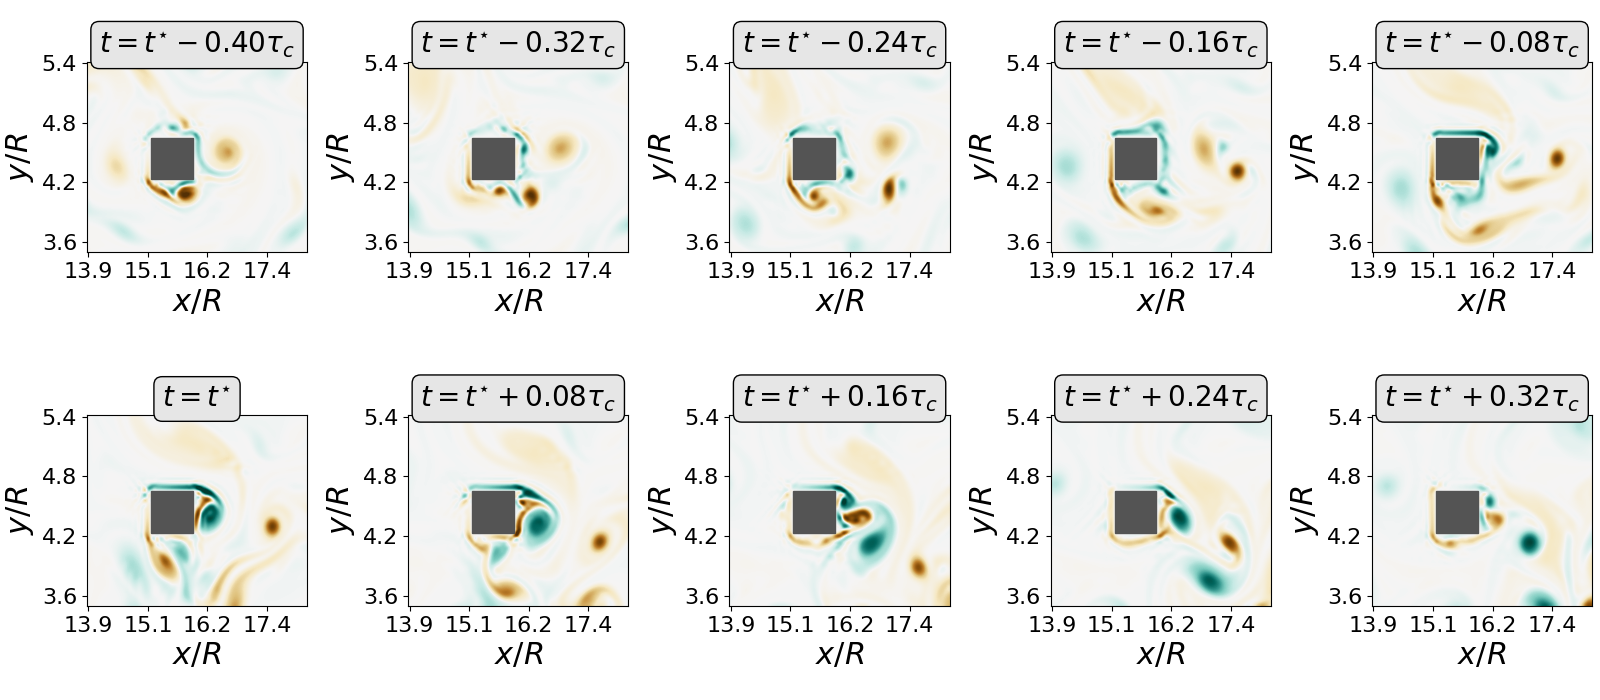
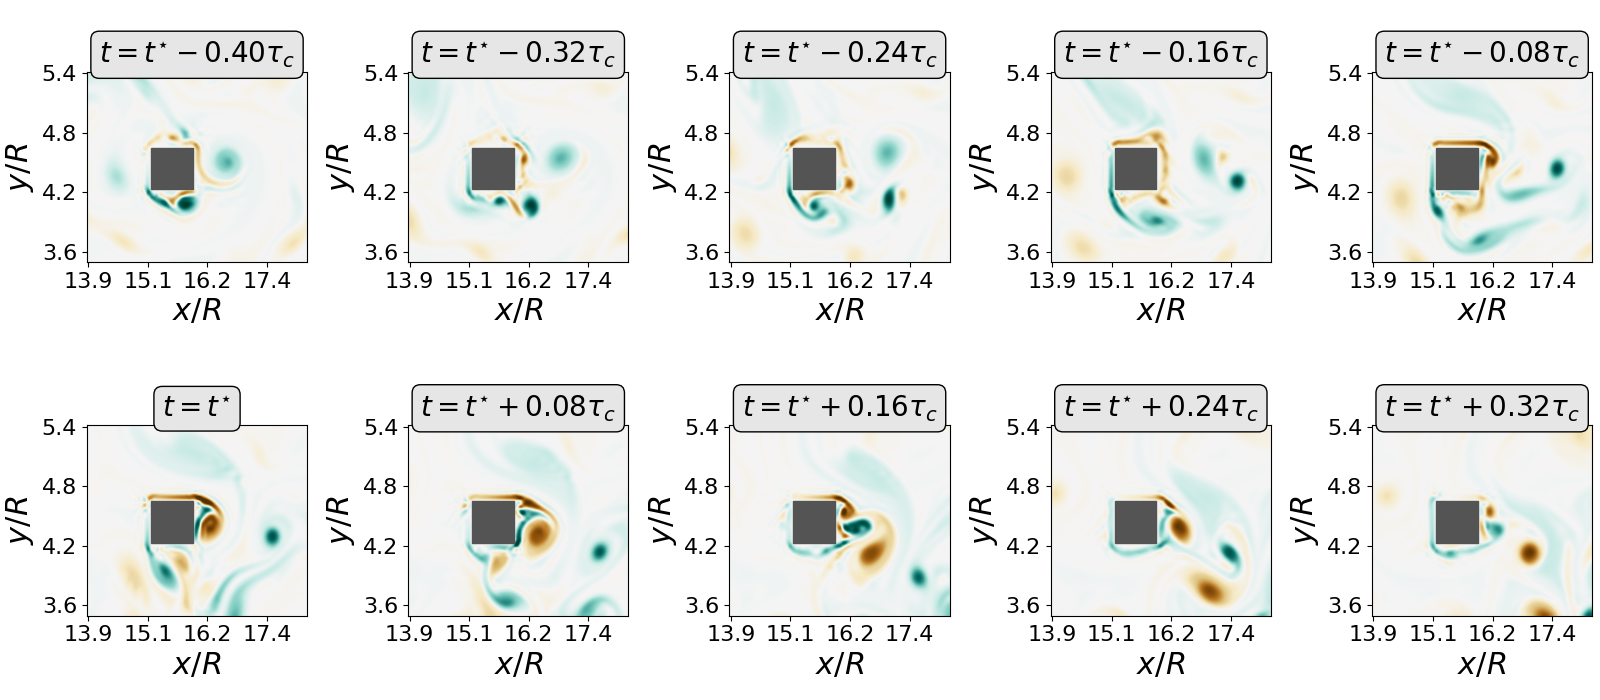
Reverse vorticity field

diff --git a/figures/illustr_ecoulement/plot_ecoulement.py b/figures/illustr_ecoulement/plot_ecoulement.py
@@ -1,0 +1,77 @@
+# Produces a figure illustrating the vorticity field in the whole comp. domain
+import numpy as np
+import matplotlib.pyplot as plt
+from matplotlib.patches import Rectangle
+
+Dx = 513
+Dy = 129
+N = Dx*Dy
+F = np.zeros(104)
+idx = np.zeros(104)
+# Make use of flow data generated for figure ecoulement typique
+prefix = '/home/tlestang/transition_hdd/thibault/These/' \
+         + 'articles/data/ecoulement_typique/'
+
+fig, ax = plt.subplots(figsize=(16,7), constrained_layout=True)
+# Declares a 2x5 grid.
+
+path_to_file_ux = prefix+'ux.dat'
+path_to_file_uy = prefix+'uy.dat'
+fx = open(path_to_file_ux, "rb")  # reopen the file
+fy = open(path_to_file_uy, "rb")  # reopen the file
+bbox = dict(boxstyle="round", fc="0.9")
+
+# Get velocity fields
+ux = np.fromfile(fx, float, N, "")
+ux = np.reshape(ux, (129,513), 'F')
+uy = np.fromfile(fy, float, N, "")
+uy = np.reshape(uy, (129,513), 'F')
+    
+ymin=1;ymax=128
+xmin=1;xmax=512
+# Compute vorticity using finite-differences
+dxy = (uy[ymin:ymax, xmin+1:xmax+1] - uy[ymin:ymax, xmin-1:xmax-1])*0.5
+dyx = (ux[ymin+1:ymax+1, xmin:xmax] - ux[ymin-1:ymax-1, xmin:xmax])*0.5
+vort = dxy - dyx
+# The sign of the vorticity is wrong if using a right-handed coord. system.
+# The velocity field should probably be flipped upside-down
+vort = - vort
+
+im=ax.imshow(vort, interpolation='spline36', cmap='BrBG', vmin=-0.07, vmax=0.07)
+
+# Adds a filled Rectangle to mark the square obstacle
+rect = ax.add_artist(Rectangle((256,55), 14, 14))
+rect.set_color('#545454')
+# Show the grid
+R = 8
+ny,nx  = ux.shape
+n_lamina = ((ny-1)/R)/2
+x0 = (nx-1)/16
+for i in range(0,int(n_lamina)):
+    y_start = 2*i*R + R/2
+    y_end = y_start + R
+    grid = ax.add_artist(Rectangle((x0-1,y_start-1), 1, R-1))
+    grid.set_color('#545454')
+
+# Write ticks and labels
+xticks = ax.get_xticks()
+xticks[:] = [x / 17 for x in xticks]
+xticklabels = ['{:2.1f}'.format(x) for x in xticks]
+ax.set_xticklabels(xticklabels, fontsize=16)
+yticks = ax.get_yticks()
+yticks[:] = [x / 17 for x in yticks]
+yticklabels = ['{:2.1f}'.format(x) for x in yticks]
+ax.set_yticklabels(yticklabels[::-1], fontsize=16)
+
+ax.tick_params(axis='both', which='major', labelsize=22)
+ax.set_xlabel(r'$x/R$',fontsize=24)
+ax.set_ylabel(r'$y/R$',fontsize=24)
+        
+#cbar=fig.colorbar(im, ax=ax,location='top')
+#cbar.ax.tick_params(labelsize=16)
+
+fname = 'illustr_ecoulement.png'
+plt.savefig(fname)
+
+plt.show()
+            

diff --git a/figures/illustr_extrms_vorticity/make_plot_vorticity.py b/figures/illustr_extrms_vorticity/make_plot_vorticity.py
@@ -11,7 +11,7 @@ Dy = 129
 N = Dx*Dy
 F = np.zeros(104)
 idx = np.zeros(104)
-prefix = '/home/thibault/transition_hdd/thibault/These/lbm_code/seq/draft/etude_dynamique/instant_events/'
+prefix = '/home/tlestang/transition_hdd/thibault/These/lbm_code/seq/draft/etude_dynamique/instant_events/'
 # Files extremes.csv contains the index of the events and the corresponding
 # peak drag amplitude, in units of sigma
 # First row is lowest fluctuation
@@ -59,6 +59,9 @@ for i in range(0,Nevents):
         dxy = (uy[ymin:ymax, xmin+1:xmax+1] - uy[ymin:ymax, xmin-1:xmax-1])*0.5
         dyx = (ux[ymin+1:ymax+1, xmin:xmax] - ux[ymin-1:ymax-1, xmin:xmax])*0.5
         vort = dxy - dyx
+        # The sign of the vorticity is wrong if using a right-handed coord. system.
+        # The velocity field should probably be flipped upside-down
+        vort = - vort
 
         # Print fluctuation amplitude as title
         tit='{:2.1f}$\\sigma$'.format(F[Nevents-i-1])

diff --git a/figures/dynamics_extremes/plot_dynamics.py b/figures/dynamics_extremes/plot_dynamics.py
@@ -12,7 +12,7 @@ N = Dx*Dy
 F = np.zeros(104)
 idx = np.zeros(104)
 
-prefix = '/home/thibault/transition_hdd/thibault/These/lbm_code/seq/draft/etude_dynamique/instant_events/'
+prefix = "/home/tlestang/transition_hdd/thibault/These/lbm_code/seq/draft/etude_dynamique/instant_events/"
 # Files extremes.csv contains the index of the events and the corresponding
 # peak drag amplitude, in units of sigma
 # First row is lowest fluctuation
@@ -60,6 +60,9 @@ for i in range(0,nplots):
         dxy = (uy[ymin:ymax, xmin+1:xmax+1] - uy[ymin:ymax, xmin-1:xmax-1])*0.5
         dyx = (ux[ymin+1:ymax+1, xmin:xmax] - ux[ymin-1:ymax-1, xmin:xmax])*0.5
         vort = dxy - dyx
+        # The sign of the vorticity is wrong if using a right-handed coord. system.
+        # The velocity field should probably be flipped upside-down
+        vort = - vort
 
         # Print fluctuation amplitude as title
         timeFromPeak=(offset+1-50)*0.04

diff --git a/figures/ecoulement_typique/plot_ecoulement_typique.py b/figures/ecoulement_typique/plot_ecoulement_typique.py
@@ -12,7 +12,8 @@ N = Dx*Dy
 F = np.zeros(104)
 idx = np.zeros(104)
 
-prefix = './'
+prefix = '/home/tlestang/transition_hdd/thibault/These/' \
+         + 'articles/data/ecoulement_typique/'
 
 fig = plt.figure(figsize=(16,7), constrained_layout=True)
 # Declares a 2x5 grid.
@@ -51,6 +52,9 @@ for i in range(0,nplots-1):
         dxy = (uy[ymin:ymax, xmin+1:xmax+1] - uy[ymin:ymax, xmin-1:xmax-1])*0.5
         dyx = (ux[ymin+1:ymax+1, xmin:xmax] - ux[ymin-1:ymax-1, xmin:xmax])*0.5
         vort = dxy - dyx
+        # The sign of the vorticity is wrong if using a right-handed coord. system.
+        # The velocity field should probably be flipped upside-down
+        vort = - vort
 
         # Print time as title
         timeFromBeg=0.1+i*0.2
